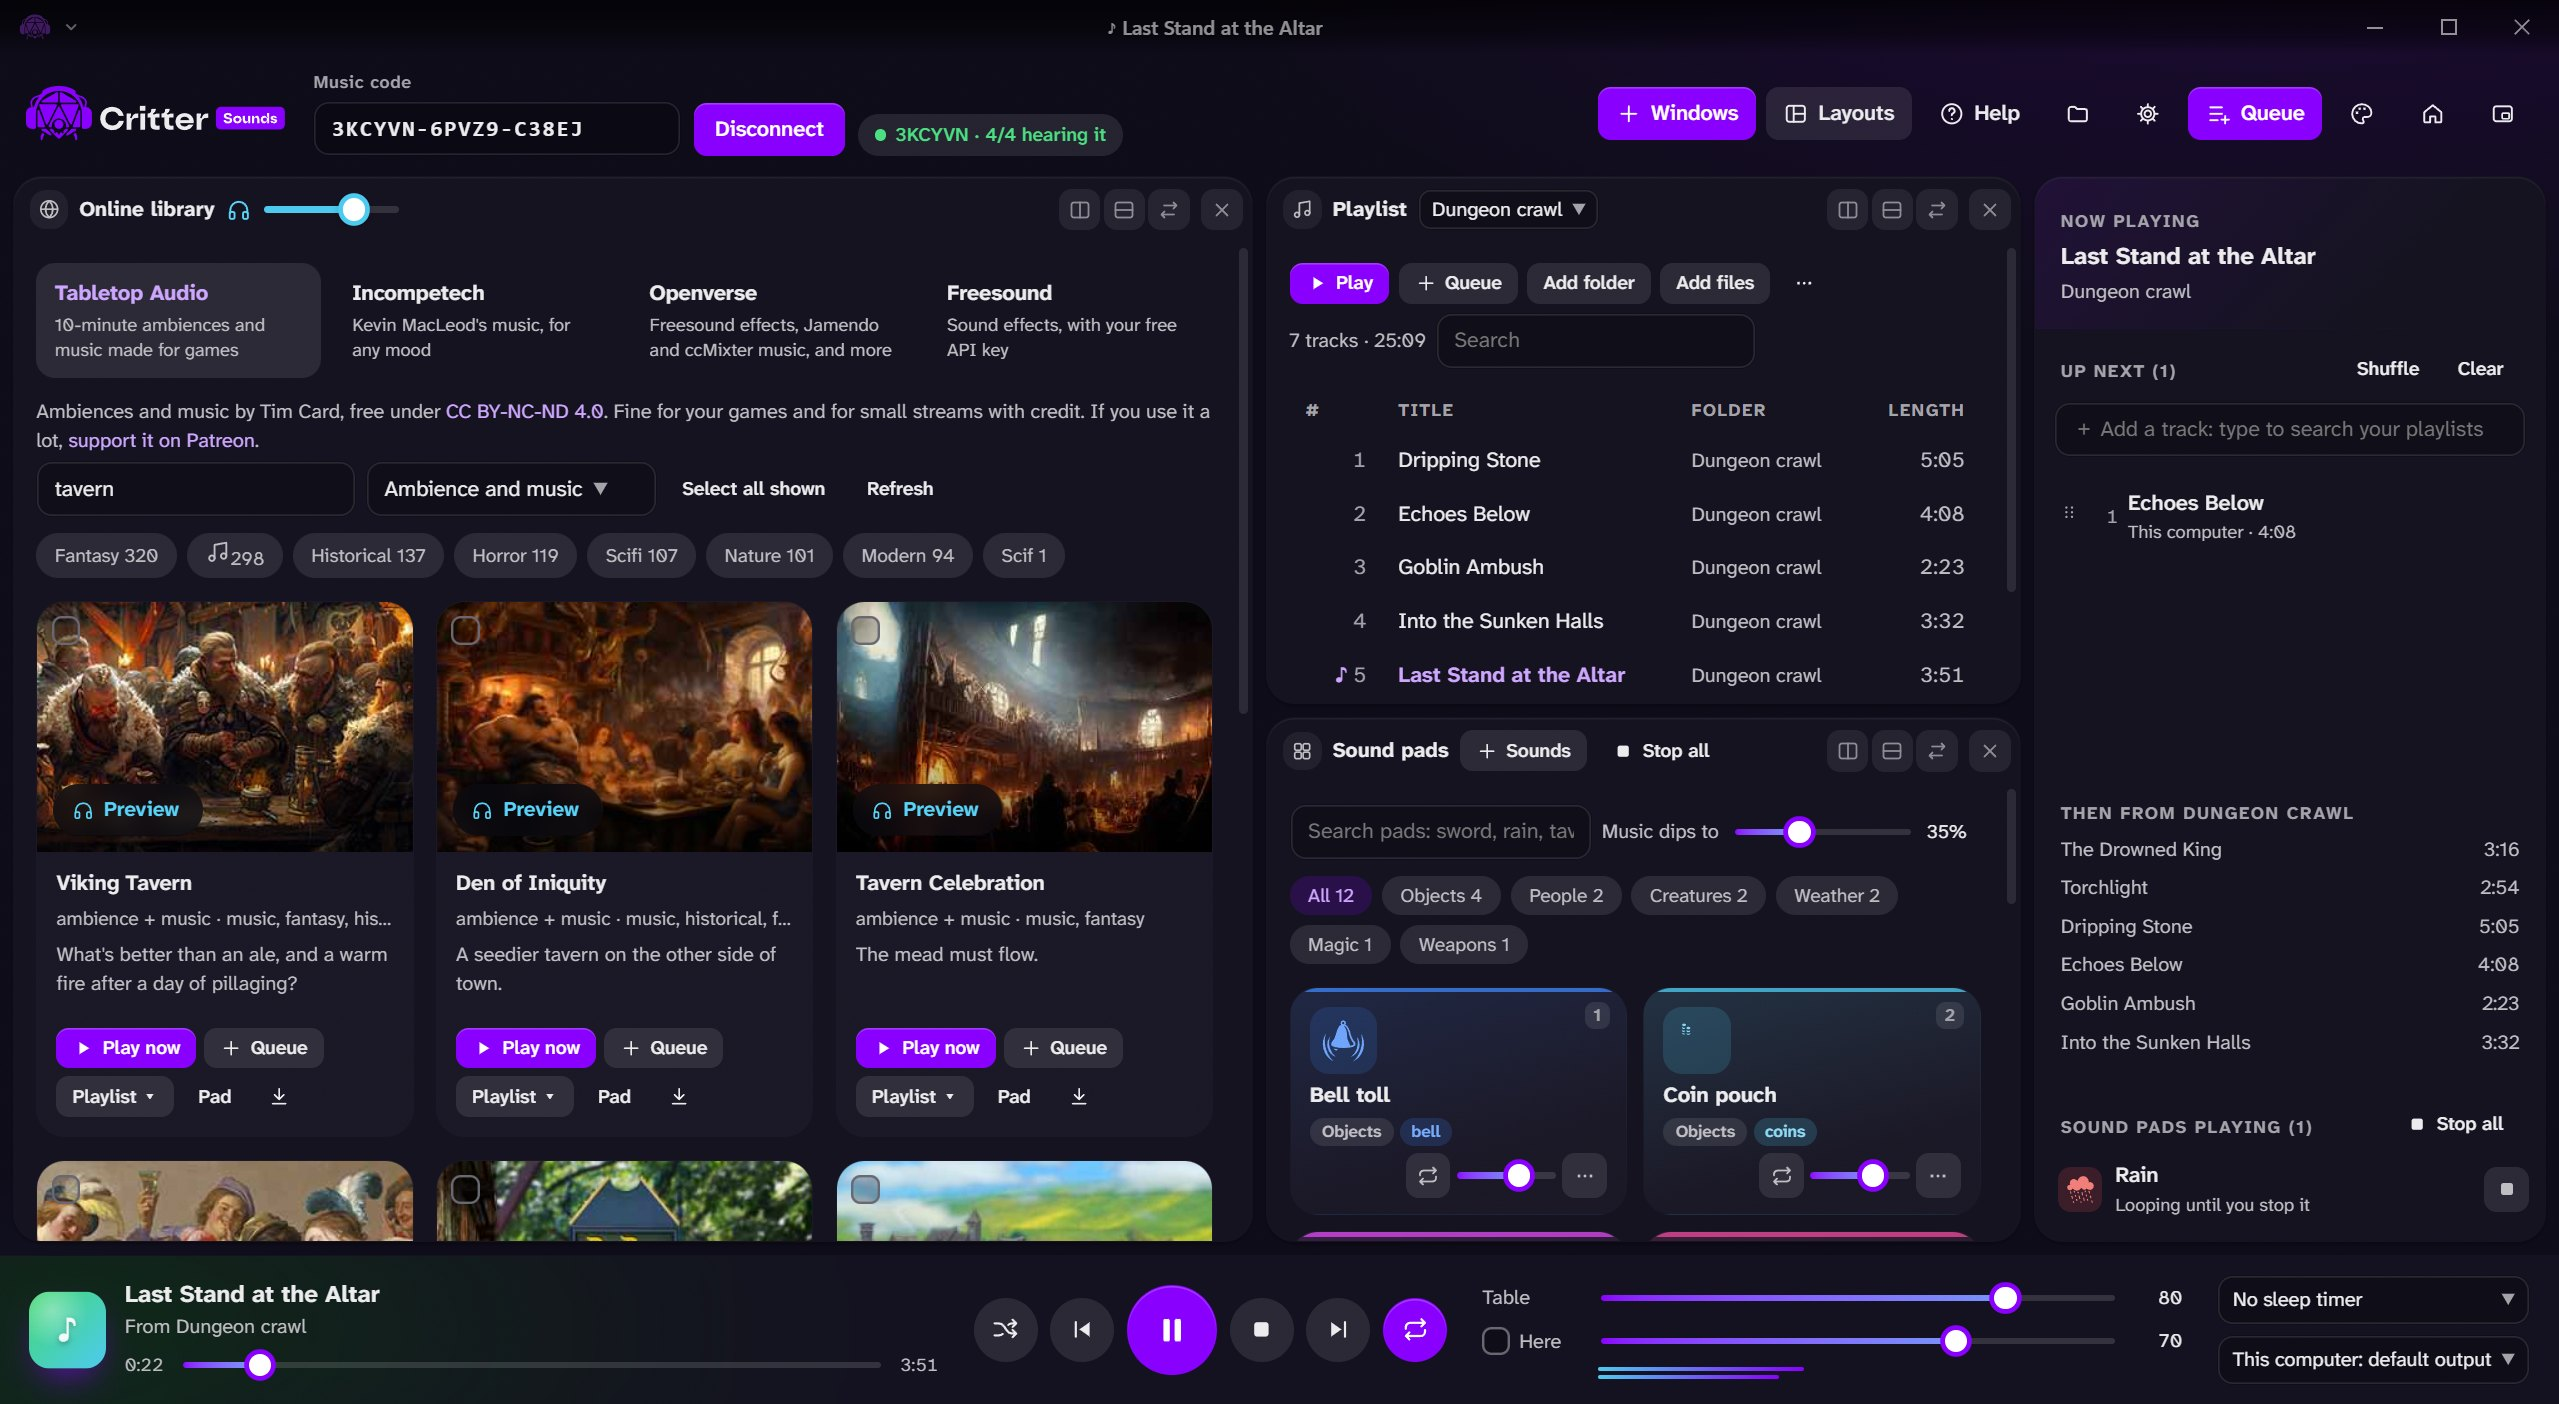
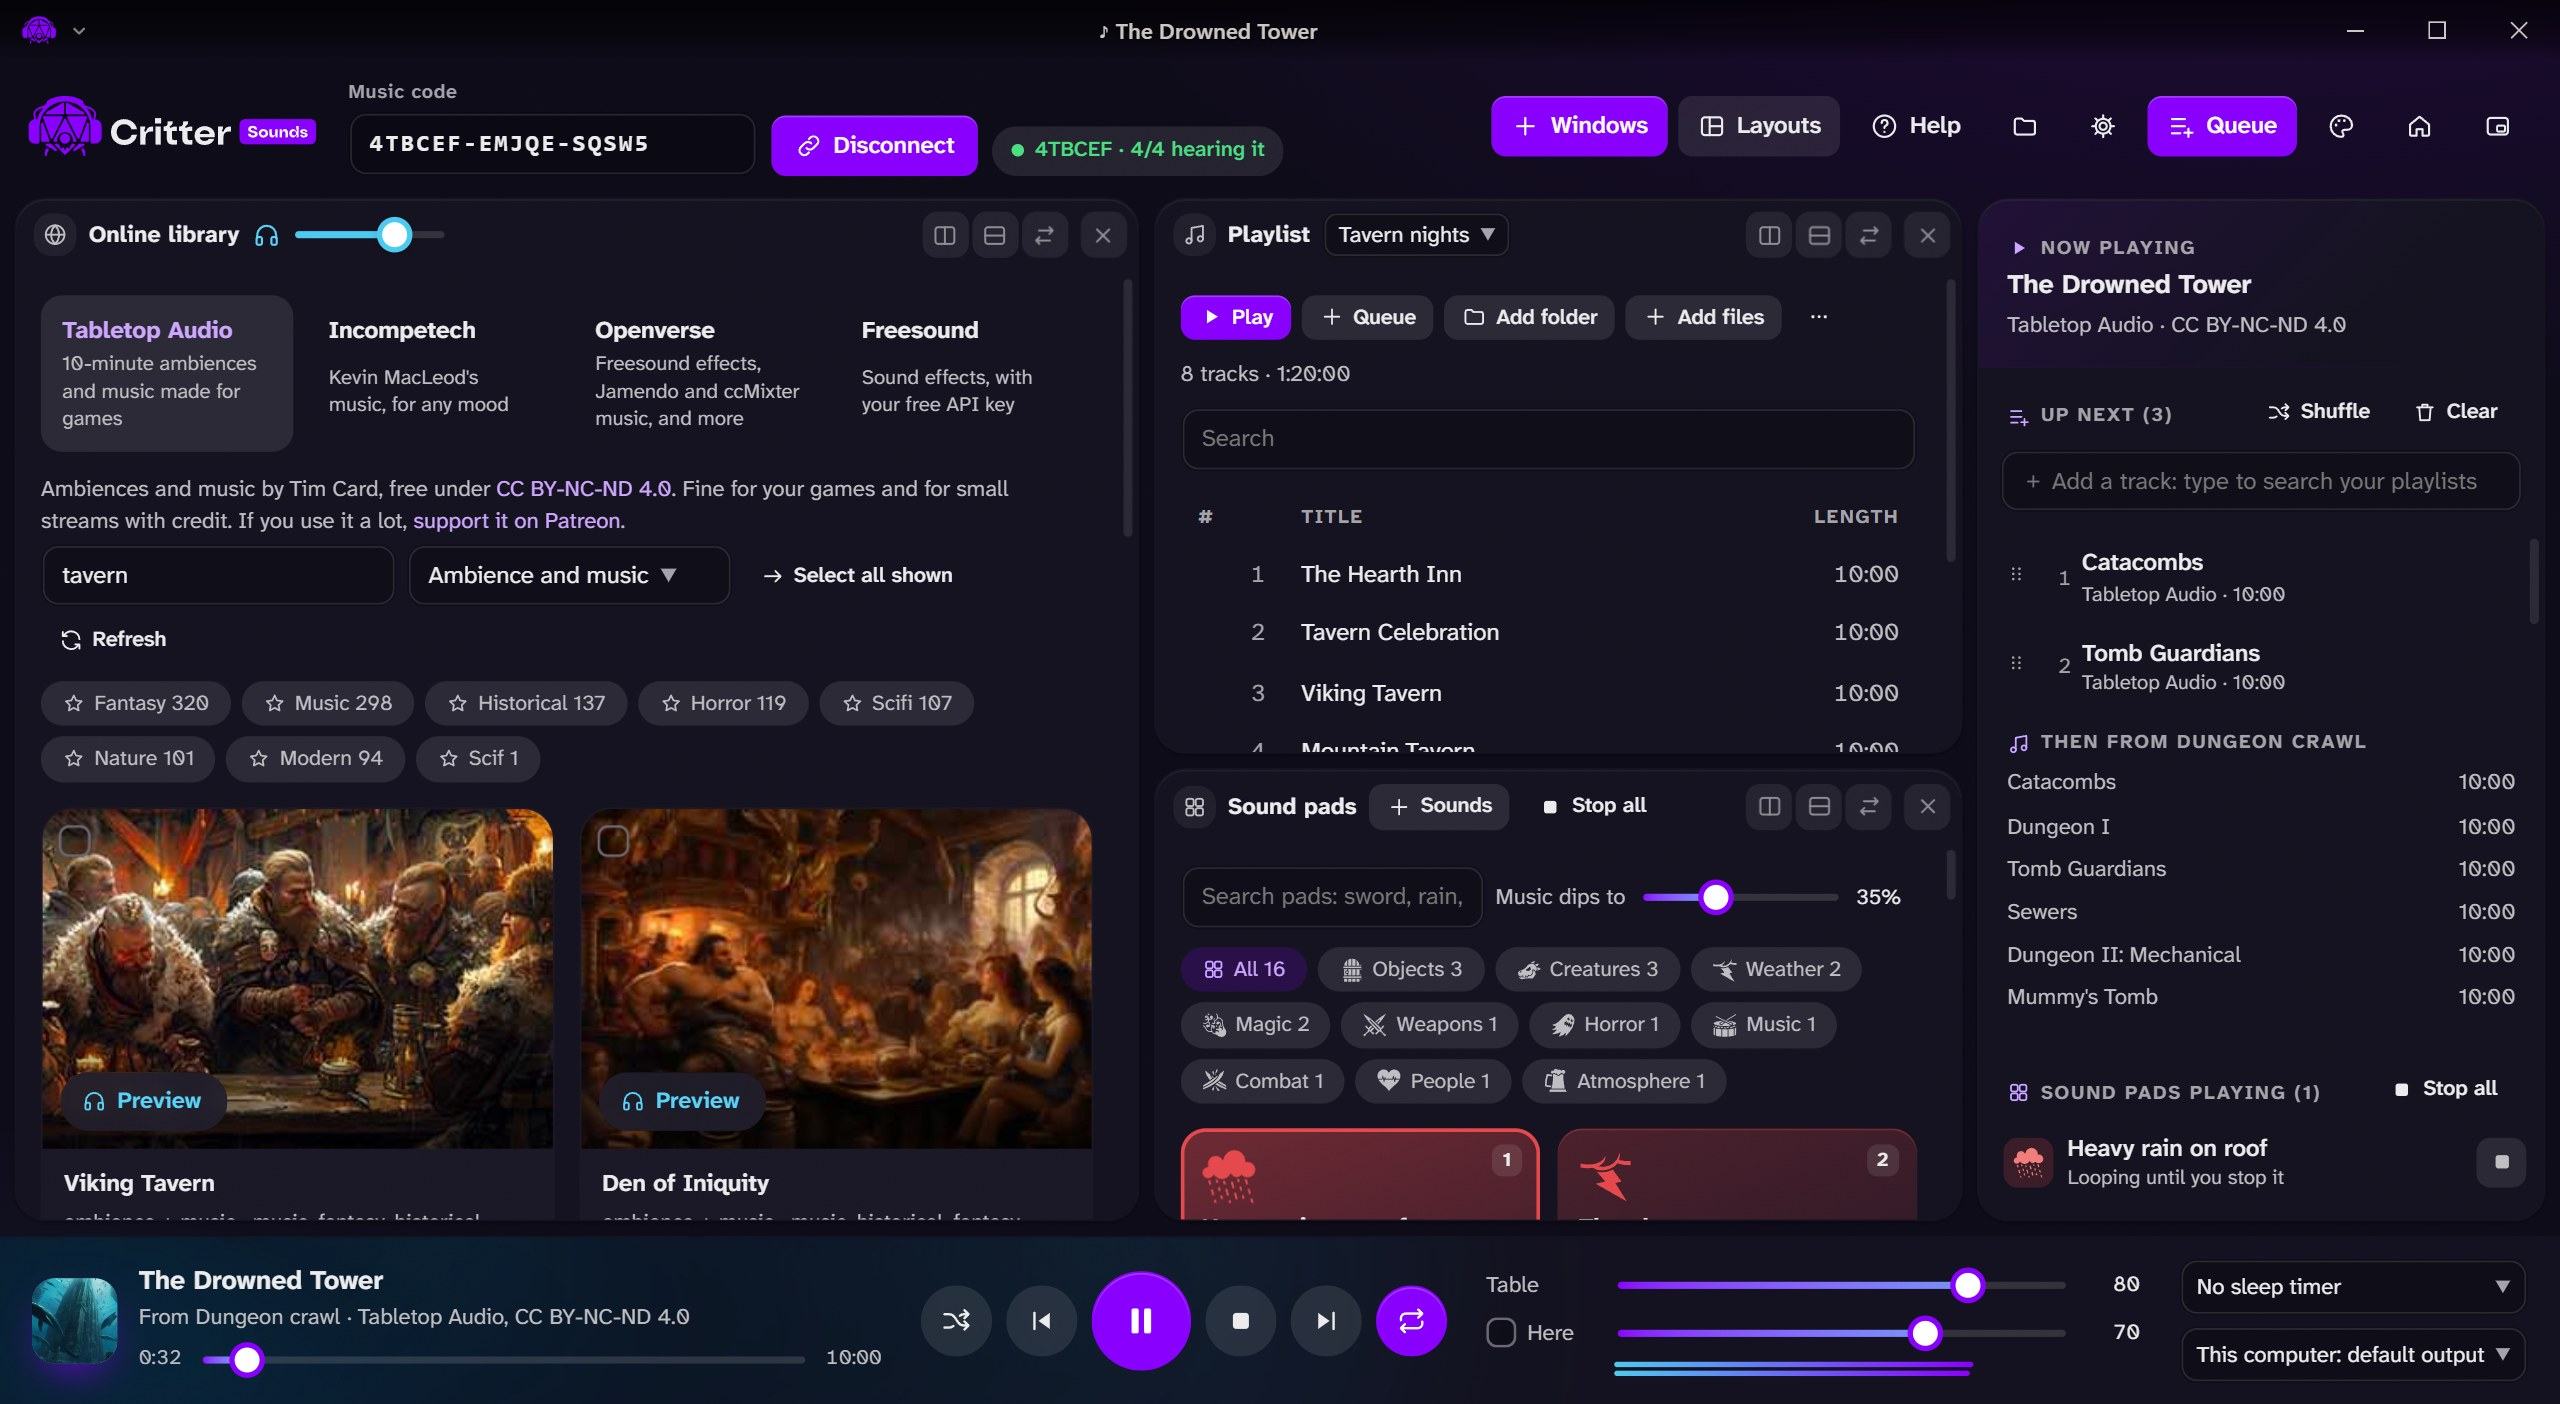
Website: new screenshots of Critter Sounds in the shared design
Retaken from a demo profile with the app as it is now: the hero playing The Drowned Tower from a dungeon playlist
with the Cave effect, a rain pad looping and tracks queued; the Sunken crypt soundscape in the node editor; and the
online library searching Tabletop Audio for tavern ambiences beside the playlist and pads. Built with
critter-design/sites/build.mjs.

diff --git a/docs/index.html b/docs/index.html
@@ -31,7 +31,7 @@
     <p class="lede">Music, sound effects and ambience for your tabletop game, played from your computer to everyone at the table: in Critter VTT, or in a Discord or Fluxer voice channel.</p>
     <div class="ctas"><a class="btn primary" href="https://github.com/booskers/critter-sounds/releases/latest/download/Critter-Sounds-Setup.exe"><svg viewBox="0 0 24 24" fill="none" stroke="currentColor" stroke-width="2" stroke-linecap="round" stroke-linejoin="round" aria-hidden="true"><path d="M12 4v11m0 0l-5-5m5 5l5-5M4 20h16"/></svg> Download for Windows</a><a class="btn " href="#how"><svg viewBox="0 0 24 24" fill="none" stroke="currentColor" stroke-width="2" stroke-linecap="round" stroke-linejoin="round" aria-hidden="true"><path d="M6 4l14 8-14 8z"/></svg> How it connects</a></div>
     <p class="note">Free and open source. Windows 10 and 11.</p>
-    <figure class="shot"><img src="img/sounds-main.jpg" alt="Critter Sounds connected to a table, playing The Drowned King with the Cave effect, with playlists, sound pads, soundscapes, scenes and the queue" width="2559" height="1404"><figcaption>Connected to the table and heard by all four seats: a dungeon playlist with the Cave effect, rain looping on a pad, and the next tracks queued.</figcaption></figure>
+    <figure class="shot"><img src="img/sounds-main.jpg" alt="Critter Sounds connected to a table, playing The Drowned Tower with the Cave effect, with playlists, sound pads, soundscapes, scenes and the queue" width="2560" height="1404"><figcaption>Connected to the table and heard by all four seats: a dungeon playlist with the Cave effect, rain looping on a pad, and the next tracks queued.</figcaption></figure>
   </div>
 </section>
 
@@ -57,7 +57,7 @@
         <p class="sub">Patch noise, samples, LFOs and random triggers together: rain that comes and goes, a bell that tolls now and then, a wolf in the distance. Every change is heard as you make it.</p>
         <ul class="ticks"><li><b>A node editor</b> with sound, control and trigger cables, colour-coded.</li><li><b>Macro sliders</b> like Danger or Intensity show on the soundscape’s tile, to change it while it plays.</li><li><b>Render a loop</b> up to ten minutes long, crossfaded so it loops without a seam.</li><li><b>Your own nodes</b> in a few lines of JavaScript.</li></ul>
       </div>
-      <figure class="media"><img src="img/sounds-scape.jpg" alt="The soundscape editor with the Sunken crypt soundscape: noise through a swept filter into a cave reverb, rain, and randomly triggered bell and wolf samples" width="2559" height="1404" loading="lazy"></figure>
+      <figure class="media"><img src="img/sounds-scape.jpg" alt="The soundscape editor with the Sunken crypt soundscape: brown noise through a slowly swept filter, rain that comes and goes, and a bell and a wolf that sound at random into a cave reverb" width="2560" height="1404" loading="lazy"></figure>
     </div>
   </div>
 </section>
@@ -70,7 +70,7 @@
         <p class="sub">Search free music and sound effects inside the app. Preview it, queue it, make it a pad, or save it to play offline. Every track keeps its credit, and players see it.</p>
         <ul class="ticks"><li><b>Tabletop Audio</b> with about 520 ten-minute ambiences and pieces of music.</li><li><b>Incompetech</b> with about 1,440 pieces by Kevin MacLeod.</li><li><b>Openverse and Freesound</b> for sound effects, each with its license.</li><li><b>YouTube</b> search, keeping only the sound, for what you may use.</li></ul>
       </div>
-      <figure class="media"><img src="img/sounds-library.jpg" alt="The online library searching Tabletop Audio for tavern ambiences, beside the playlist and sound pads" width="2559" height="1404" loading="lazy"><figcaption>Tavern ambiences from <a href="https://tabletopaudio.com">Tabletop Audio</a> (CC BY-NC-ND 4.0), shown with their credit.</figcaption></figure>
+      <figure class="media"><img src="img/sounds-library.jpg" alt="The online library searching Tabletop Audio for tavern ambiences, beside the playlist and sound pads" width="2560" height="1404" loading="lazy"><figcaption>Tavern ambiences from <a href="https://tabletopaudio.com">Tabletop Audio</a> (CC BY-NC-ND 4.0), shown with their credit.</figcaption></figure>
     </div>
   </div>
 </section>
